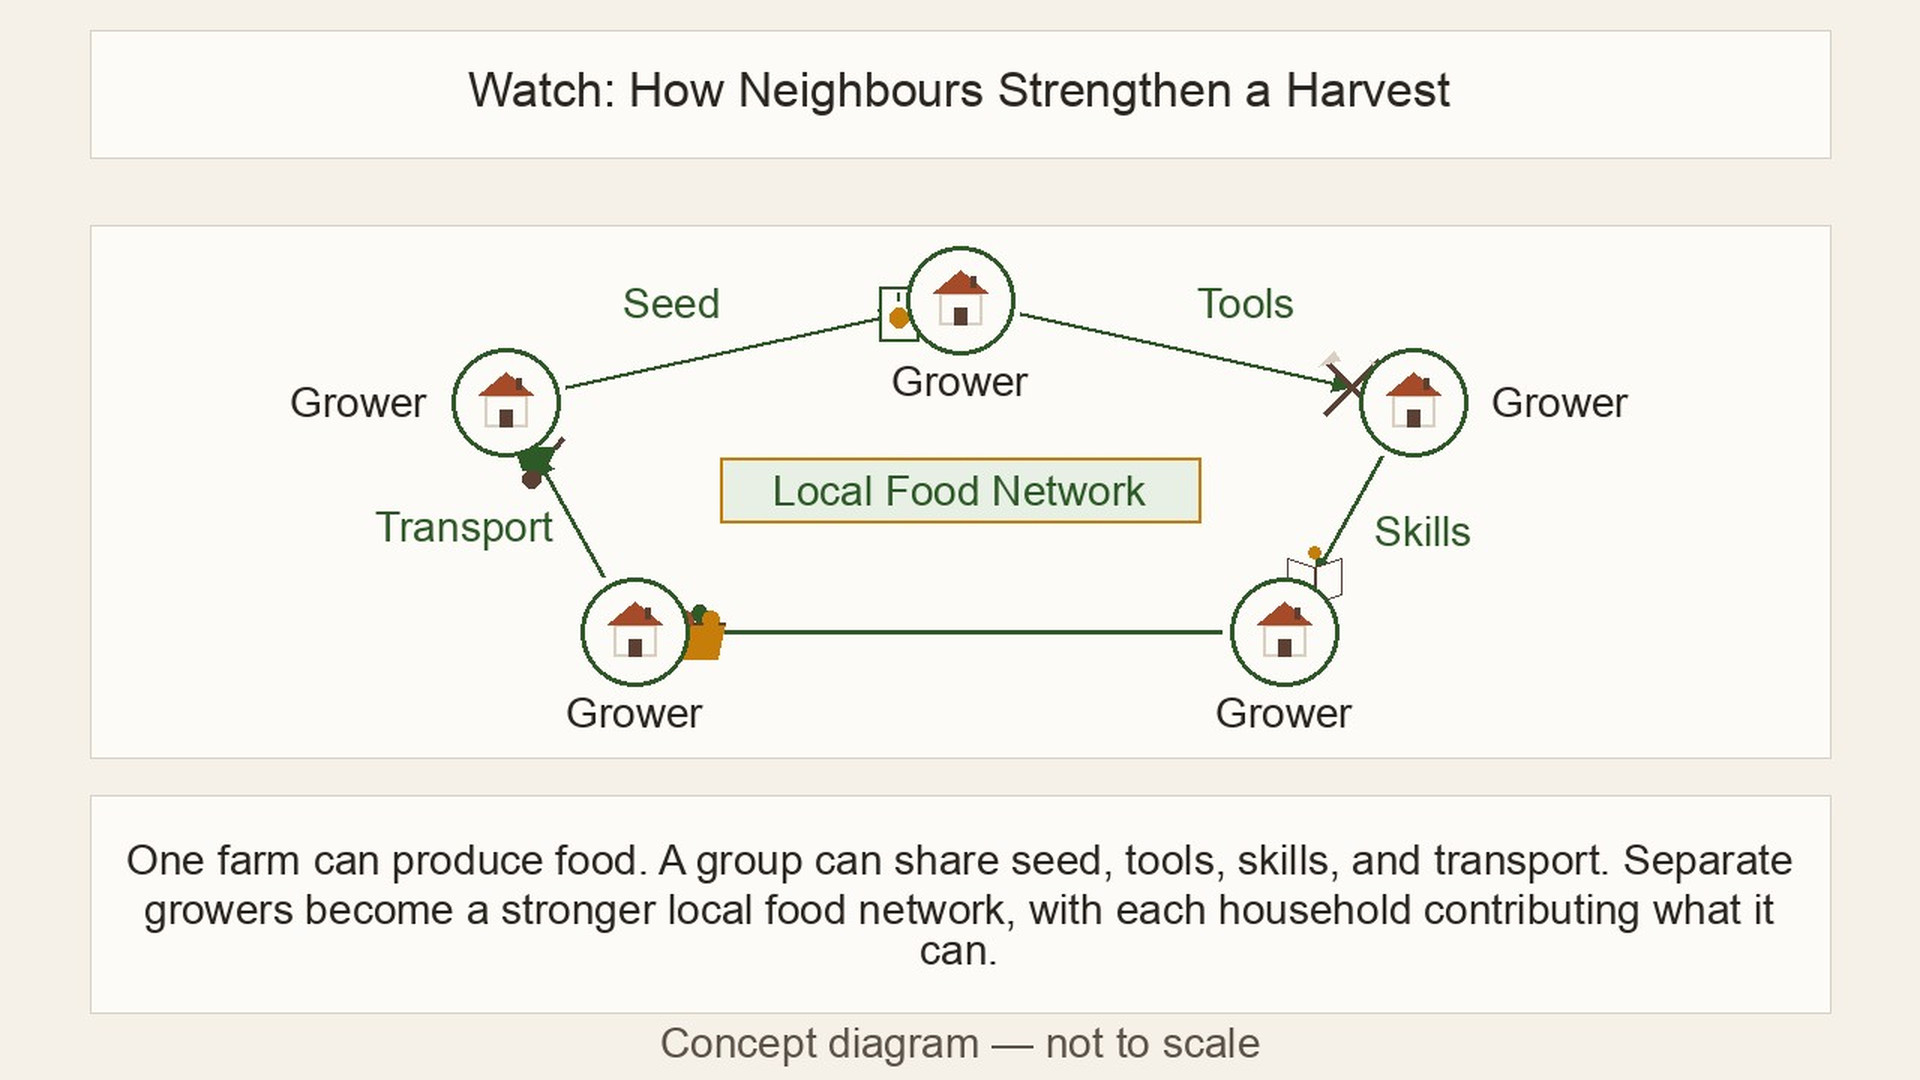
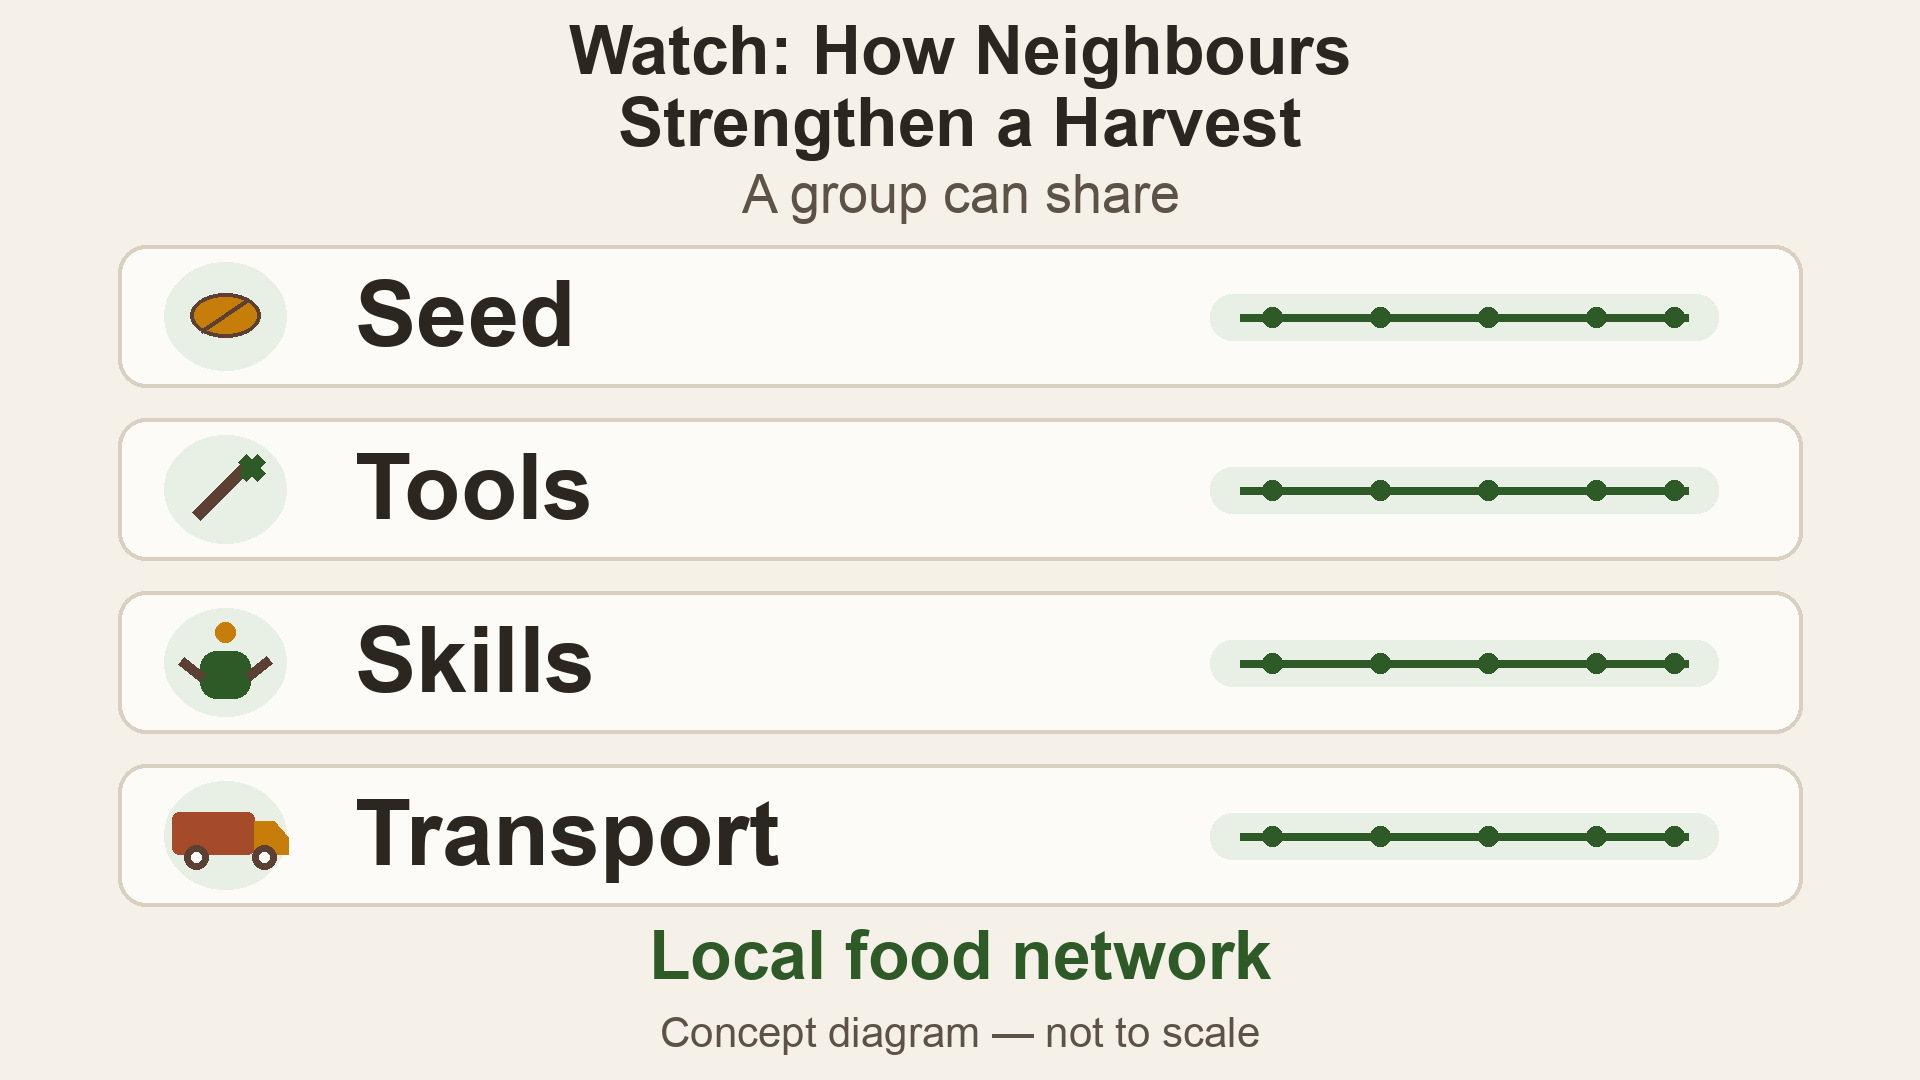
Improve Market L3 network still for phone reading

Changed region(s): [[0.0625, 0.0, 0.9375, 0.9167], [0.3438, 0.9472, 0.6562, 1.0]]

diff --git a/tests/studies-media-migration.test.ts b/tests/studies-media-migration.test.ts
@@ -68,6 +68,42 @@ test('a saved Food Forest layer key replaces only its old still and preserves na
   assert.equal(await rows.get(replacement.url)!.text(), 'new key');
 });
 
+test('a saved Market community network gets the phone-readable still without clearing seed-sharing media', async () => {
+  const source = readFileSync(new URL('../app/sw.js/route.ts', import.meta.url), 'utf8');
+  const body = source.match(/async function migrateMarketCommunityNetworkStill\(\) \{([\s\S]*?)\n\}/)?.[1];
+  assert.ok(body);
+  assert.match(source, /then\(migrateMarketCommunityNetworkStill\)\.then/);
+
+  const origin = 'https://field.test';
+  const oldStill = new Request(origin + '/course-decks/market-community/en/slide-14.jpg?cached=1');
+  const narration = new Request(origin + '/course-audio/market-community/en/slide-14.mp3');
+  const seedFilm = new Request(origin + '/course-animations/market-community/flow-seed-sharing.mp4');
+  const nextSlide = new Request(origin + '/course-decks/market-community/en/slide-15.jpg');
+  const rows = new Map<string, Response>([
+    [oldStill.url, new Response('small network labels')],
+    [narration.url, new Response('saved speech')],
+    [seedFilm.url, new Response('saved seed handover')],
+    [nextSlide.url, new Response('saved next still')],
+  ]);
+  const cache = {
+    match: async (key: string) => rows.get(origin + key),
+    keys: async () => [...rows.keys()].map(url => new Request(url)),
+    delete: async (request: Request) => rows.delete(request.url),
+    put: async (key: string, response: Response) => { rows.set(origin + key, response); },
+  };
+  const run = new Function('caches', 'COURSE_CACHE', 'Response', 'return (async () => {' + body + '})()');
+  await run({ open: async () => cache }, 'imbewu-course-v1', Response);
+  assert.equal(rows.has(oldStill.url), false);
+  for (const request of [narration, seedFilm, nextSlide]) assert.equal(rows.has(request.url), true);
+  assert.equal(rows.has(origin + '/course-decks/market-community/en/.community-network-still-20260923'), true);
+  assert.doesNotMatch(body, /\bfetch\(/, 'migration must not silently redownload the still');
+
+  const replacement = new Request(origin + '/course-decks/market-community/en/slide-14.jpg');
+  rows.set(replacement.url, new Response('new network still'));
+  await run({ open: async () => cache }, 'imbewu-course-v1', Response);
+  assert.equal(await rows.get(replacement.url)!.text(), 'new network still');
+});
+
 test('a saved Market route diagram replaces only slide 9 and preserves the rest of the lesson', async () => {
   const source = readFileSync(new URL('../app/sw.js/route.ts', import.meta.url), 'utf8');
   const body = source.match(/async function migrateMarketL2RouteStill\(\) \{([\s\S]*?)\n\}/)?.[1];

diff --git a/app/sw.js/route.ts b/app/sw.js/route.ts
@@ -677,6 +677,20 @@ async function migrateFoodForestLayerKeyStill() {
   await cache.put(marker, new Response('Phone-readable seven-layer key'));
 }
 
+// Slide 14's four sharing labels are now readable at phone fit. Invalidate only
+// that saved picture; the learner chooses when to download its replacement.
+async function migrateMarketCommunityNetworkStill() {
+  const cache = await caches.open(COURSE_CACHE);
+  const marker = '/course-decks/market-community/en/.community-network-still-20260923';
+  if (await cache.match(marker)) return;
+  for (const request of await cache.keys()) {
+    if (new URL(request.url).pathname === '/course-decks/market-community/en/slide-14.jpg') {
+      await cache.delete(request);
+    }
+  }
+  await cache.put(marker, new Response('Phone-readable community sharing labels'));
+}
+
 self.addEventListener('activate', function (event) {
   event.waitUntil(
     caches.keys().then(function (keys) {
@@ -692,7 +706,7 @@ self.addEventListener('activate', function (event) {
           })
           .map(function (key) { return caches.delete(key); })
       );
-    }).then(migrateGuildNarration).then(migrateStudiesMedia).then(migrateChickenForagingMedia).then(migrateForestLayerMedia).then(migrateSoilObservationMedia).then(migrateForestEstablishmentMedia).then(migrateLandscapeSiteMapNarration).then(migrateForestMulchInfographic).then(migrateForestSheetMulchingMedia).then(migrateVegetableChoiceMedia).then(migrateUnapprovedStudyAnimations).then(migrateBeeHiveAndBlossomMedia).then(migrateGreywaterTeachingMedia).then(migrateWindbreakMedia).then(migrateSoilCoverStills).then(migrateMarketRecordStill).then(migrateFoodForestLayerKeyStill).then(migrateHeldAuthoredStudyAnimations).then(migrateHeldWaterSwaleMedia).then(migrateMarketL2RouteStill).then(function () {
+    }).then(migrateGuildNarration).then(migrateStudiesMedia).then(migrateChickenForagingMedia).then(migrateForestLayerMedia).then(migrateSoilObservationMedia).then(migrateForestEstablishmentMedia).then(migrateLandscapeSiteMapNarration).then(migrateForestMulchInfographic).then(migrateForestSheetMulchingMedia).then(migrateVegetableChoiceMedia).then(migrateUnapprovedStudyAnimations).then(migrateBeeHiveAndBlossomMedia).then(migrateGreywaterTeachingMedia).then(migrateWindbreakMedia).then(migrateSoilCoverStills).then(migrateMarketRecordStill).then(migrateFoodForestLayerKeyStill).then(migrateHeldAuthoredStudyAnimations).then(migrateHeldWaterSwaleMedia).then(migrateMarketL2RouteStill).then(migrateMarketCommunityNetworkStill).then(function () {
       // Take control of already-open tabs so this version's fetch handler
       // (and therefore network-first HTML) runs without needing a reload first.
       return self.clients.claim();

diff --git a/lib/course-asset-sizes.ts b/lib/course-asset-sizes.ts
@@ -469,7 +469,7 @@ export const COURSE_ASSET_SIZES: Readonly<Record<string, number>> = Object.freez
   '/course-decks/market-community/en/slide-11.jpg': 136160,
   '/course-decks/market-community/en/slide-12.jpg': 117841,
   '/course-decks/market-community/en/slide-13.jpg': 167361,
-  '/course-decks/market-community/en/slide-14.jpg': 207132,
+  '/course-decks/market-community/en/slide-14.jpg': 208457,
   '/course-decks/market-community/en/slide-15.jpg': 738631,
   '/course-decks/market-community/en/slide-16.jpg': 861957,
   '/course-decks/market-community/en/slide-17.jpg': 142492,

diff --git a/docs/media/studies-animation-quality/render-market-community-network-still.py b/docs/media/studies-animation-quality/render-market-community-network-still.py
@@ -1,0 +1,110 @@
+#!/usr/bin/env python3
+"""Recompose Market Gardening L3 slide 14 for the learner's phone-width still.
+
+The English narration already names the four kinds of sharing. This static
+concept diagram makes those words visible without implying a guaranteed
+harvest, sale or income.
+"""
+
+from pathlib import Path
+from PIL import Image, ImageDraw, ImageFont
+
+
+ROOT = Path(__file__).resolve().parents[3]
+OUTPUT = ROOT / "public/course-decks/market-community/en/slide-14.jpg"
+WIDTH, HEIGHT = 1920, 1080
+
+CREAM = (245, 241, 232)
+CARD = (253, 251, 247)
+TEXT = (44, 38, 32)
+MUTED = (92, 82, 72)
+FOREST = (45, 90, 39)
+PALE_GREEN = (232, 240, 229)
+SOIL = (92, 64, 51)
+BORDER = (217, 208, 193)
+GOLD = (198, 125, 10)
+RUST = (166, 75, 42)
+
+FONT_REGULAR = Path("/System/Library/Fonts/Supplemental/Arial.ttf")
+FONT_BOLD = Path("/System/Library/Fonts/Supplemental/Arial Bold.ttf")
+if not FONT_REGULAR.exists():
+    FONT_REGULAR = Path("/usr/share/fonts/truetype/dejavu/DejaVuSans.ttf")
+if not FONT_BOLD.exists():
+    FONT_BOLD = Path("/System/Library/Fonts/Supplemental/Arial Black.ttf")
+if not FONT_BOLD.exists():
+    FONT_BOLD = Path("/usr/share/fonts/truetype/dejavu/DejaVuSans-Bold.ttf")
+
+
+def font(size: int, bold: bool = False) -> ImageFont.FreeTypeFont:
+    return ImageFont.truetype(FONT_BOLD if bold else FONT_REGULAR, size)
+
+
+def centered(draw: ImageDraw.ImageDraw, text: str, y: int, size: int,
+             fill: tuple[int, int, int], bold: bool = False) -> None:
+    face = font(size, bold)
+    left, top, right, _ = draw.textbbox((0, 0), text, font=face)
+    draw.text(((WIDTH - (right - left)) / 2 - left, y - top), text,
+              font=face, fill=fill)
+
+
+def seed_icon(draw: ImageDraw.ImageDraw, x: int, y: int) -> None:
+    draw.ellipse((x - 35, y - 22, x + 35, y + 22), fill=GOLD, outline=SOIL, width=4)
+    draw.line((x - 24, y + 16, x + 23, y - 16), fill=SOIL, width=4)
+
+
+def tools_icon(draw: ImageDraw.ImageDraw, x: int, y: int) -> None:
+    draw.line((x - 29, y + 28, x + 23, y - 24), fill=SOIL, width=13)
+    draw.line((x + 17, y - 30, x + 36, y - 11), fill=FOREST, width=12)
+    draw.line((x + 36, y - 30, x + 17, y - 11), fill=FOREST, width=12)
+
+
+def skills_icon(draw: ImageDraw.ImageDraw, x: int, y: int) -> None:
+    draw.ellipse((x - 10, y - 39, x + 10, y - 19), fill=GOLD)
+    draw.rounded_rectangle((x - 25, y - 10, x + 25, y + 37), radius=16, fill=FOREST)
+    draw.line((x - 44, y - 1, x - 23, y + 16), fill=SOIL, width=10)
+    draw.line((x + 44, y - 1, x + 23, y + 16), fill=SOIL, width=10)
+
+
+def transport_icon(draw: ImageDraw.ImageDraw, x: int, y: int) -> None:
+    draw.rounded_rectangle((x - 53, y - 22, x + 29, y + 20), radius=7, fill=RUST)
+    draw.polygon(((x + 29, y - 13), (x + 49, y - 13), (x + 63, y + 3),
+                  (x + 63, y + 20), (x + 29, y + 20)), fill=GOLD)
+    for wx in (x - 29, x + 39):
+        draw.ellipse((wx - 12, y + 11, wx + 12, y + 35), fill=SOIL)
+        draw.ellipse((wx - 5, y + 18, wx + 5, y + 28), fill=CARD)
+
+
+def main() -> None:
+    image = Image.new("RGB", (WIDTH, HEIGHT), CREAM)
+    draw = ImageDraw.Draw(image)
+
+    centered(draw, "Watch: How Neighbours", 25, 68, TEXT, True)
+    centered(draw, "Strengthen a Harvest", 96, 68, TEXT, True)
+    centered(draw, "A group can share", 174, 54, MUTED)
+
+    rows = (
+        ("Seed", seed_icon),
+        ("Tools", tools_icon),
+        ("Skills", skills_icon),
+        ("Transport", transport_icon),
+    )
+    tops = (245, 418, 591, 764)
+    for (label, icon), top in zip(rows, tops):
+        draw.rounded_rectangle((118, top, 1802, top + 142), radius=28,
+                               fill=CARD, outline=BORDER, width=4)
+        draw.ellipse((164, top + 17, 286, top + 125), fill=PALE_GREEN)
+        icon(draw, 225, top + 70)
+        draw.text((355, top + 17), label, font=font(92, True), fill=TEXT)
+        draw.rounded_rectangle((1210, top + 49, 1718, top + 95), radius=22,
+                               fill=PALE_GREEN)
+        draw.line((1240, top + 72, 1688, top + 72), fill=FOREST, width=8)
+        for node_x in (1272, 1380, 1488, 1596, 1674):
+            draw.ellipse((node_x - 10, top + 62, node_x + 10, top + 82), fill=FOREST)
+
+    centered(draw, "Local food network", 929, 68, FOREST, True)
+    centered(draw, "Concept diagram — not to scale", 1017, 42, MUTED)
+    image.save(OUTPUT, format="JPEG", quality=93, subsampling=0, optimize=True)
+
+
+if __name__ == "__main__":
+    main()

diff --git a/docs/media/studies-animation-quality/market-l3-current-lesson-check.md b/docs/media/studies-animation-quality/market-l3-current-lesson-check.md
@@ -8,6 +8,22 @@ was made. This is technical/source review, not Rory, farmer, learner,
 practitioner, legal or fluent isiZulu approval. Farm Finance is outside this
 pass.
 
+## Slide 14 static still candidate
+
+The original network illustration's small labels and dense narration panel
+became difficult to read at the learner's 269 px image width. A deterministic
+static recomposition keeps the existing title and makes the four spoken
+sharing categories — seed, tools, skills and transport — large, with a
+“Concept diagram — not to scale” note. It does not depict a combined harvest,
+sale or income result. I inspected the 1920 × 1080 output and a proportional
+269 × 151 px fit; the four labels remain distinct and no text or cards overlap.
+The English slide-14 narration and protected lesson text are unchanged. This
+is a still replacement only; slide 14 has no registered animation. The generic seed
+sharing rights qualification remains unresolved as recorded below and is not
+resolved by this diagram. It still needs product-level deployed/player review
+before release. Rory's visual-clearance gate remains in force for the separate
+locally drawn animation, which is not registered in the learner player.
+
 ## Current lesson and actual media
 
 Module slides 14–18 discuss a local network, seed, shared tools, produce loss
